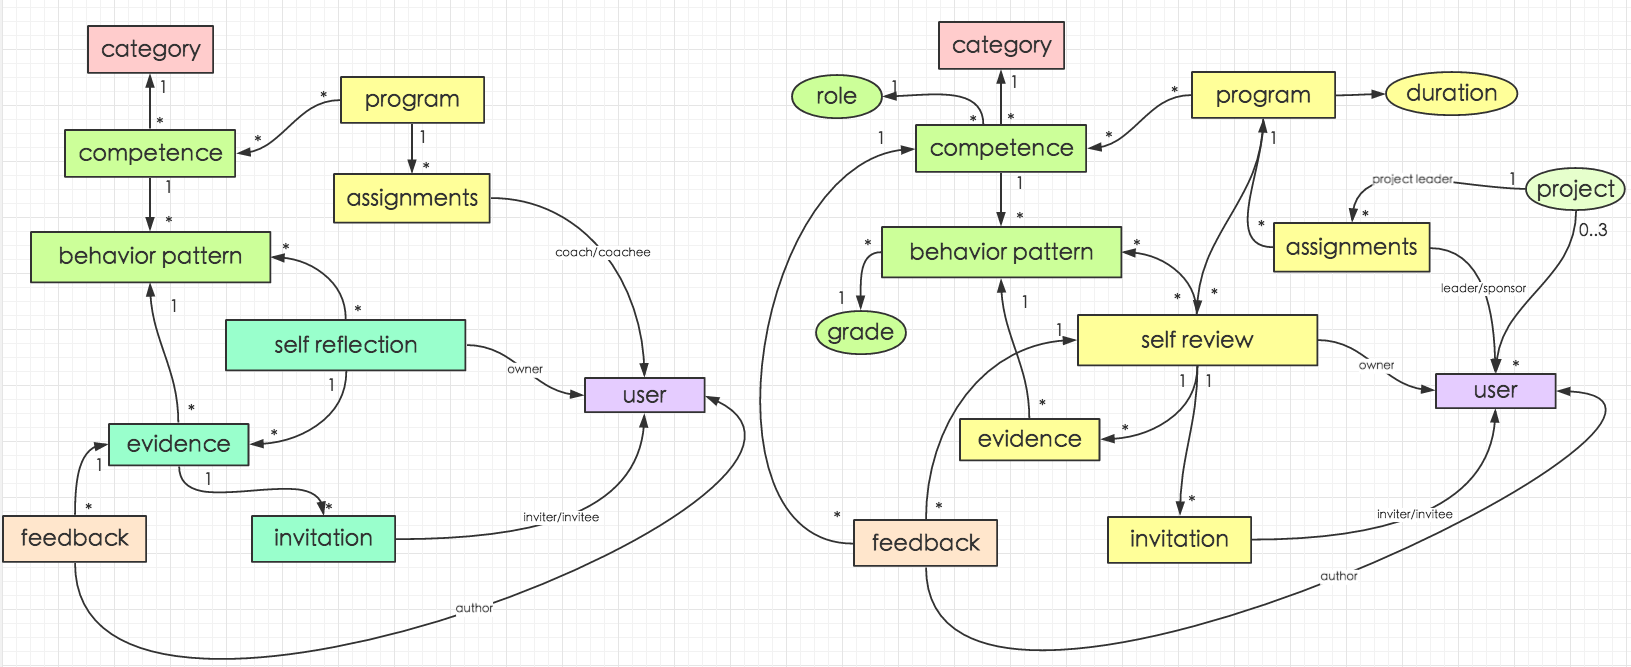
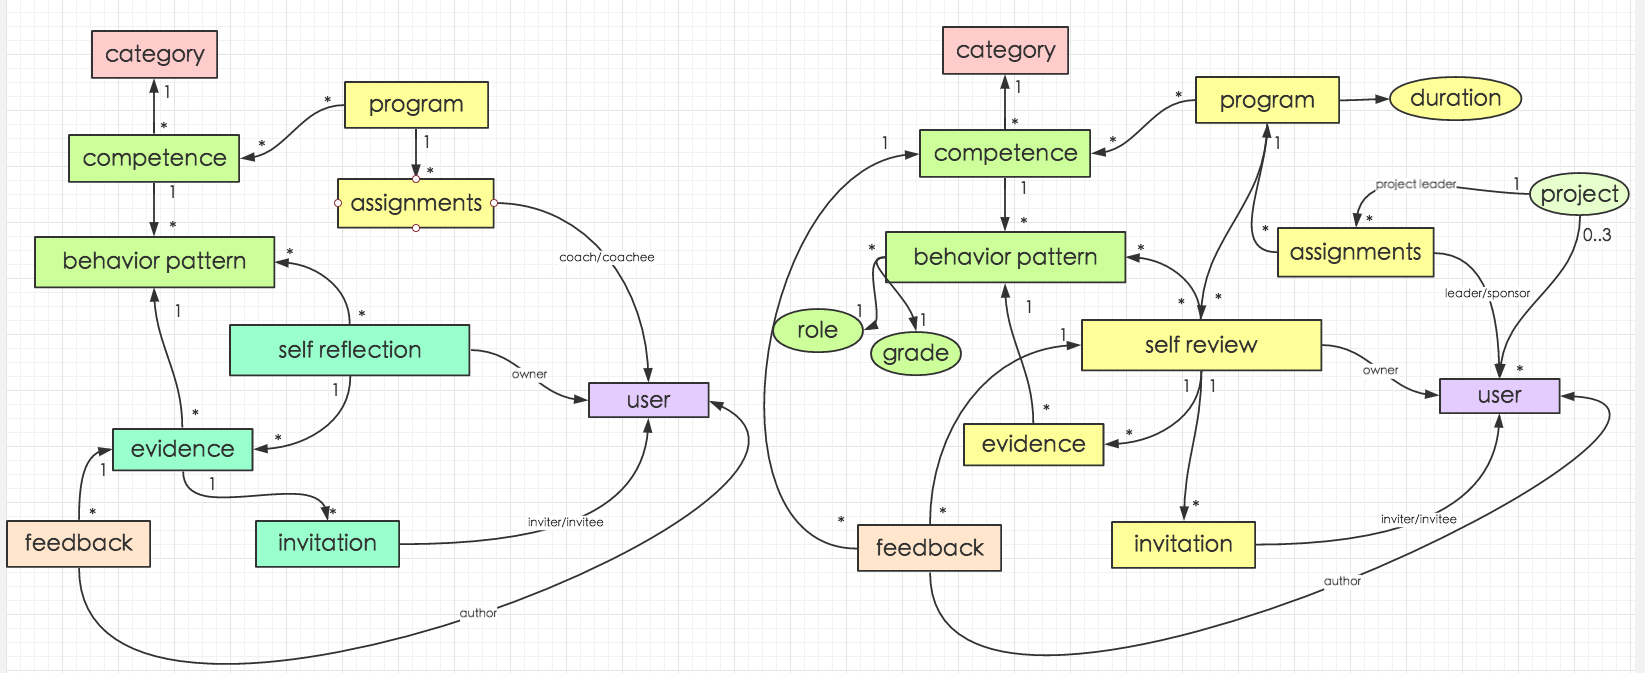
update competence and behavior relate description

diff --git a/doc/performance-review.html b/doc/performance-review.html
@@ -322,12 +322,7 @@
       "nickname": { "type": "string" },
       "email": { "type": "string" },
       "img": { "type": "string" },
-      "role": { 
-        "type": "array",
-        "items": {
-          "type": "enum"
-        }
-      },
+      "role": { "type": "string" },
       "department": { "type": "string" },
       "type": { "enum": ["SYSTEM_ADMIN", "NORMAL"] },
       "grade": { "type": "string" }
@@ -359,7 +354,7 @@
     "nickname": { "type": "string" },
     "email": { "type": "string" },
     "img": { "type": "string" },
-    "roles": { "type": "string" },
+    "role": { "type": "string" },
     "department": { "type": "string" },
     "password": { "type": "string" },
     "type": { "enum": ["SYSTEM_ADMIN", "NORMAL"] },
@@ -373,7 +368,7 @@
   "img": "imgs/img.gif",
   "nickname": "Jiankang Sun",
   "id": "12312",
-  "role": "PM | DEV",
+  "role": "PM_DEV",
   "type": "NORMAL",
   "department": "Professional Services",
   "home_office": "Xi&#39;an",
@@ -508,7 +503,7 @@
     "nickname": { "type": "string" },
     "email": { "type": "string" },
     "img": { "type": "string" },
-    "roles": { "type": "string" },
+    "role": { "type": "string" },
     "department": { "type": "string" },
     "type": { "enum": ["SYSTEM_ADMIN", "NORMAL"] },
     "grade": { "type": "string" }
@@ -826,10 +821,7 @@
         {
           "id": "xx",
           "name": "xxx",
-          "roleDescription": {
-            "description": "desc...",
-            "role": "PM"
-          },
+          "description": "desc...",
           "category": {
             "id": "xx",
             "name": "xxx"
@@ -839,7 +831,8 @@
               "id": "xxx",
               "description": "xxx",
               "grade": "CON",
-              "hint": "xxx"
+              "hint": "xxx",
+              "role": "PM | DEV"
             }
           ]
         }
@@ -889,10 +882,7 @@
     {
       "id": "xx",
       "name": "xxx",
-      "roleDescription": {
-        "description": "desc...",
-        "role": "PM"
-      },
+      "description": "desc...",
       "category": {
         "id": "xx",
         "name": "xxx"
@@ -902,7 +892,8 @@
           "id": "xxx",
           "description": "xxx",
           "grade": "CON",
-          "hint": "xxx"
+          "hint": "xxx",
+          "role": "PM | DEV"
         }
       ]
     }
@@ -1026,18 +1017,7 @@
       "type": "string",
       "description": "Id of category"
     },
-    "roleDescriptions": {
-      "type": "array",
-      "items": {
-        "type": "object",
-        "properties": {
-          "description": { "type": "string" },
-          "role": { "type": "string" }
-        },
-        "required": ["description", "role"]
-      },
-      "minItems": 1
-    },
+    "description": {"type": "string"},
     "behaviors": {
       "type": "array",
       "items": {
@@ -1045,38 +1025,32 @@
         "properties": {
           "description": { "type": "string" },
           "hint": { "type": "string" },
-          "grade": { "type": "string" }
+          "grade": { "type": "string" },
+          "role": { "type": "string" }
         },
         "required": ["description", "grade", "hint"]
       },
       "minItems": 0
     }
   },
-  "required": ["name", "roleDescriptions", "category"]
+  "required": ["name", "category"]
 }</code></pre><p><strong>Example</strong>:</p><pre><code>{
   "name": "Self Confidence",
   "category": "category_id",
-  "roleDescriptions": [
-    {
-      "role": "PM | DEV | ...",
-      "description": "desc"
-    }
-  ],
+  "description": "desc...",
   "behaviros": [
     {
       "grade": "CON | SENIOR | ...",
       "description": "desc",
-      "hint": "the hint about how to write evidence for this behavior"
+      "hint": "the hint about how to write evidence for this behavior",
+      "role": "PM | DEV |..."
     }
   ]
-}</code></pre></div><div class="tab-pane" id="competences_post_response"><h2>HTTP status code <a href="http://httpstatus.es/201" target="_blank">201</a></h2><h2>HTTP status code <a href="http://httpstatus.es/400" target="_blank">400</a></h2></div></div></div></div></div></div><div class="modal fade" tabindex="0" id="competences_get"><div class="modal-dialog"><div class="modal-content"><div class="modal-header"><button type="button" class="close" data-dismiss="modal" aria-hidden="true">&times;</button><h4 class="modal-title" id="myModalLabel"><span class="badge badge_get">get</span> <span class="parent"></span>/competences</h4></div><div class="modal-body"><div class="alert alert-info"><p>as admin, can list competences</p></div><ul class="nav nav-tabs"><li class="active"><a href="#competences_get_request" data-toggle="tab">Request</a></li><li><a href="#competences_get_response" data-toggle="tab">Response</a></li></ul><div class="tab-content"><div class="tab-pane active" id="competences_get_request"><h3>Query Parameters</h3><ul><li><strong>role</strong>: <em>(string)</em><p>list competences for some role</p></li></ul></div><div class="tab-pane" id="competences_get_response"><h2>HTTP status code <a href="http://httpstatus.es/200" target="_blank">200</a></h2><h3>Body</h3><p><strong>Type: application/json</strong></p><p><strong>Example</strong>:</p><pre><code>[
+}</code></pre></div><div class="tab-pane" id="competences_post_response"><h2>HTTP status code <a href="http://httpstatus.es/201" target="_blank">201</a></h2><h2>HTTP status code <a href="http://httpstatus.es/400" target="_blank">400</a></h2></div></div></div></div></div></div><div class="modal fade" tabindex="0" id="competences_get"><div class="modal-dialog"><div class="modal-content"><div class="modal-header"><button type="button" class="close" data-dismiss="modal" aria-hidden="true">&times;</button><h4 class="modal-title" id="myModalLabel"><span class="badge badge_get">get</span> <span class="parent"></span>/competences</h4></div><div class="modal-body"><div class="alert alert-info"><p>as admin, can list competences</p></div><ul class="nav nav-tabs"><li class="active"><a href="#competences_get_request" data-toggle="tab">Request</a></li><li><a href="#competences_get_response" data-toggle="tab">Response</a></li></ul><div class="tab-content"><div class="tab-pane active" id="competences_get_request"><h3>Query Parameters</h3><ul><li><strong>role</strong>: <em>(string)</em><p>list competences with behaviors for some role</p></li></ul></div><div class="tab-pane" id="competences_get_response"><h2>HTTP status code <a href="http://httpstatus.es/200" target="_blank">200</a></h2><h3>Body</h3><p><strong>Type: application/json</strong></p><p><strong>Example</strong>:</p><pre><code>[
   {
     "id": "xxx",
     "name": "Self Confidence",
-    "roleDescription": {
-      "description": "desc...",
-      "role": "PM"
-    },
+    "description": "desc...",
     "category": {
       "id": "xxx",
       "name": "xxx"
@@ -1086,7 +1060,8 @@
         "id": "xxx",
         "description": "xxx",
         "grade": "CON",
-        "hint": "xxx"
+        "hint": "xxx",
+        "role": "PM | DEV"
       }
     ],
     "links": [
@@ -1099,10 +1074,7 @@
   {
     "id": "xxx",
     "name": "Self Confidence",
-    "roleDescription": {
-      "description": "desc...",
-      "role": "PM"
-    },
+    "description": "desc...",
     "category": {
       "id": "xxx",
       "name": "xxx"
@@ -1112,7 +1084,8 @@
         "id": "xxx",
         "description": "xxx",
         "grade": "CON",
-        "hint": "xxx"
+        "hint": "xxx",
+        "role": "PM | DEV"
       }
     ],
     "links": [
@@ -1131,18 +1104,7 @@
       "type": "string",
       "description": "Id of category"
     },
-    "roleDescriptions": {
-      "type": "array",
-      "items": {
-        "type": "object",
-        "properties": {
-          "description": { "type": "string" },
-          "role": { "type": "string" }
-        },
-        "required": ["description", "role"]
-      },
-      "minItems": 1
-    },
+    "description": {"type": "string"},
     "behaviors": {
       "type": "array",
       "items": {
@@ -1150,28 +1112,25 @@
         "properties": {
           "description": { "type": "string" },
           "hint": { "type": "string" },
-          "grade": { "type": "string" }
+          "grade": { "type": "string" },
+          "role": { "type": "string" }
         },
         "required": ["description", "grade", "hint"]
       },
       "minItems": 0
     }
   },
-  "required": ["name", "roleDescriptions", "category"]
+  "required": ["name", "category"]
 }</code></pre><p><strong>Example</strong>:</p><pre><code>{
   "name": "Self Confidence",
   "category": "category_id",
-  "roleDescriptions": [
-    {
-      "role": "PM | DEV | ...",
-      "description": "desc"
-    }
-  ],
+  "description": "desc...",
   "behaviros": [
     {
       "grade": "CON | SENIOR | ...",
       "description": "desc",
-      "hint": "the hint about how to write evidence for this behavior"
+      "hint": "the hint about how to write evidence for this behavior",
+      "role": "PM | DEV |..."
     }
   ]
 }</code></pre></div><div class="tab-pane" id="competences__competenceId__put_response"><h2>HTTP status code <a href="http://httpstatus.es/200" target="_blank">200</a></h2><h2>HTTP status code <a href="http://httpstatus.es/404" target="_blank">404</a></h2></div></div></div></div></div></div><div class="modal fade" tabindex="0" id="competences__competenceId__delete"><div class="modal-dialog"><div class="modal-content"><div class="modal-header"><button type="button" class="close" data-dismiss="modal" aria-hidden="true">&times;</button><h4 class="modal-title" id="myModalLabel"><span class="badge badge_delete">delete</span> <span class="parent">/competences</span>/{competenceId}</h4></div><div class="modal-body"><ul class="nav nav-tabs"><li class="active"><a href="#competences__competenceId__delete_request" data-toggle="tab">Request</a></li><li><a href="#competences__competenceId__delete_response" data-toggle="tab">Response</a></li></ul><div class="tab-content"><div class="tab-pane active" id="competences__competenceId__delete_request"><h3>URI Parameters</h3><ul><li><strong>competenceId</strong>: <em>required (string)</em></li></ul></div><div class="tab-pane" id="competences__competenceId__delete_response"><h2>HTTP status code <a href="http://httpstatus.es/204" target="_blank">204</a></h2><h2>HTTP status code <a href="http://httpstatus.es/404" target="_blank">404</a></h2></div></div></div></div></div></div></div></div></div></div><div class="panel panel-default"><div class="panel-heading"><h3 id="programs" class="panel-title">/programs</h3></div><div class="panel-body"><div class="panel-group"><div class="panel panel-white"><div class="panel-heading"><h4 class="panel-title"><a class="collapsed" data-toggle="collapse" href="#panel_programs"><span class="parent"></span>/programs</a> <span class="methods"><a href="#programs_post"><span class="badge badge_post">post</span></a> <a href="#programs_get"><span class="badge badge_get">get</span></a></span></h4></div><div id="panel_programs" class="panel-collapse collapse"><div class="panel-body"><div class="list-group"><div onclick="window.location.href = '#programs_post'" class="list-group-item"><span class="badge badge_post">post</span><div class="method_description"><p>as admin, can create new program</p></div><div class="clearfix"></div></div><div onclick="window.location.href = '#programs_get'" class="list-group-item"><span class="badge badge_get">get</span><div class="method_description"><p>as admin, can list all programs</p></div><div class="clearfix"></div></div></div></div></div><div class="modal fade" tabindex="0" id="programs_post"><div class="modal-dialog"><div class="modal-content"><div class="modal-header"><button type="button" class="close" data-dismiss="modal" aria-hidden="true">&times;</button><h4 class="modal-title" id="myModalLabel"><span class="badge badge_post">post</span> <span class="parent"></span>/programs</h4></div><div class="modal-body"><div class="alert alert-info"><p>as admin, can create new program</p></div><ul class="nav nav-tabs"><li class="active"><a href="#programs_post_request" data-toggle="tab">Request</a></li><li><a href="#programs_post_response" data-toggle="tab">Response</a></li></ul><div class="tab-content"><div class="tab-pane active" id="programs_post_request"><h3>Body</h3><p><strong>Type: application/json</strong></p><p><strong>Schema</strong>:</p><pre><code>{
@@ -1225,16 +1184,7 @@
     {
       "id": "xx",
       "name": "xxx",
-      "roleDescription": [
-        {
-          "description": "desc...",
-          "role": "PM"
-        },
-        {
-          "description": "desc...",
-          "role": "DEV"
-        }
-      ],
+      "description": "desc...",
       "category": {
         "id": "xx",
         "name": "xxx"
@@ -1244,7 +1194,8 @@
           "id": "xxx",
           "description": "xxx",
           "grade": "CON",
-          "hint": "xxx"
+          "hint": "xxx",
+          "role": "PM | DEV"
         }
       ]
     }

diff --git a/doc/tasks.md b/doc/tasks.md
@@ -8,27 +8,24 @@
 
 # /users, /users/username
 * get
-	* modify role field as array
 	* can get grade info as well
 
 # /competences
 * post
-	* post roleDescriptions rather than description
-	* post behavior with grade
+	* post behavior with grade and role info
 
 	* return 400 when name, category, roleDescriptions empty;
 
 	* return 403 when not admin;
 * get
-	* can get right roleDescription and behavior with grade info
-	* can filtered by role
+	* can get right behavior with grade info
+	* can filtered behavior by role
 
 # /competences/id
 * put
-	* put roleDescriptions rather than description
-	* put behavior with grade
+	* put behavior with grade and role info
 
-	* return 400 when name, category, roleDescriptions empty;
+	* return 400 when name, category empty;
 
 	* return 403 when not admin;
 
